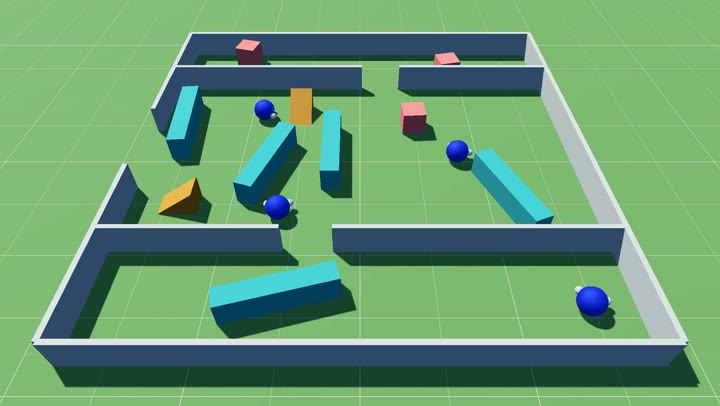
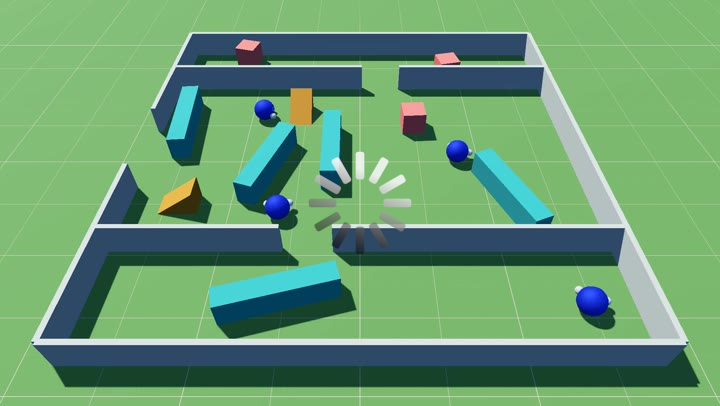
Add video thumbnail

Changed region(s): [[0.4278, 0.3547, 0.5806, 0.6207]]

diff --git a/index.html b/index.html
@@ -36,7 +36,7 @@
 
     <section id='video'>
       <div id='main-video-container'>
-        <video autoplay muted playsinline width='720' height='405'>
+        <video autoplay muted playsinline width='720' height='405' poster='thumbnail.jpg'>
           <source src='zoomout.mp4' type='video/mp4' />
         </video>
         <button class='replay'><img src='replay.svg' alt='replay'></button>
